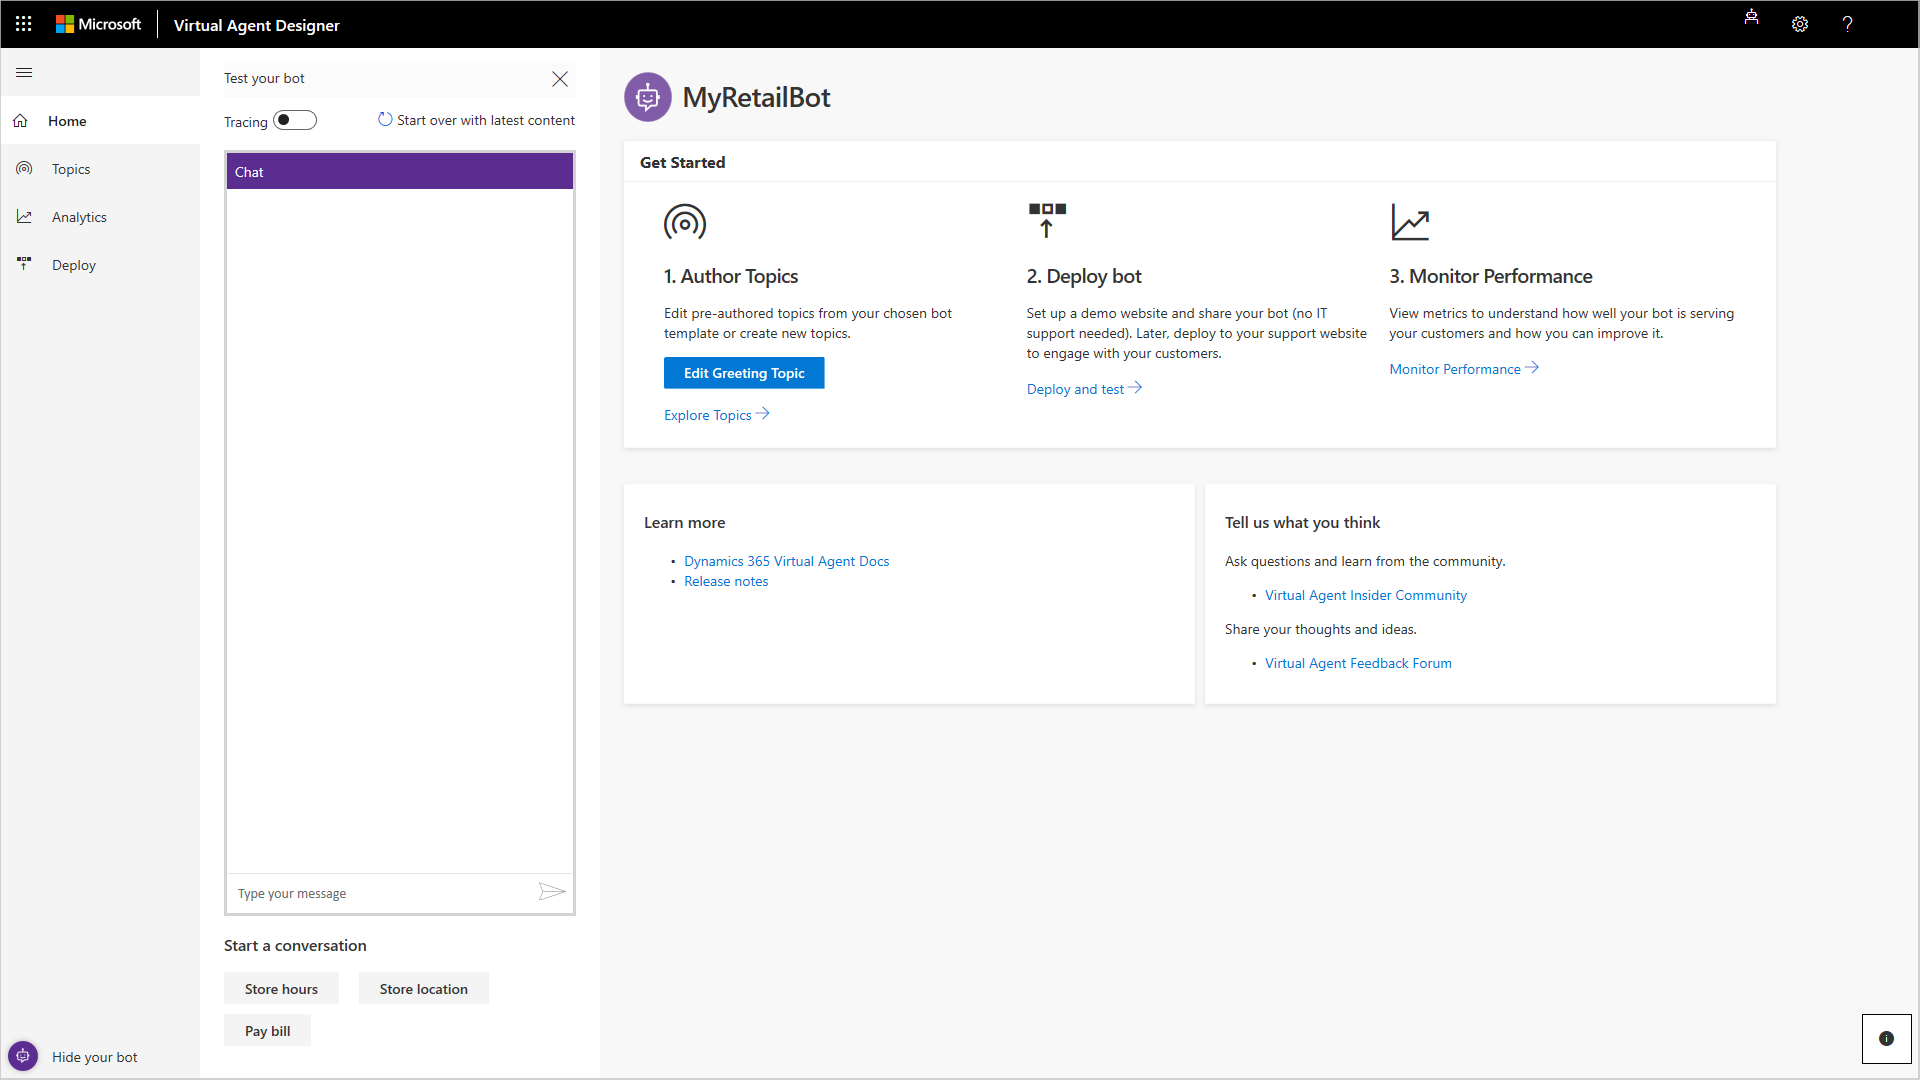
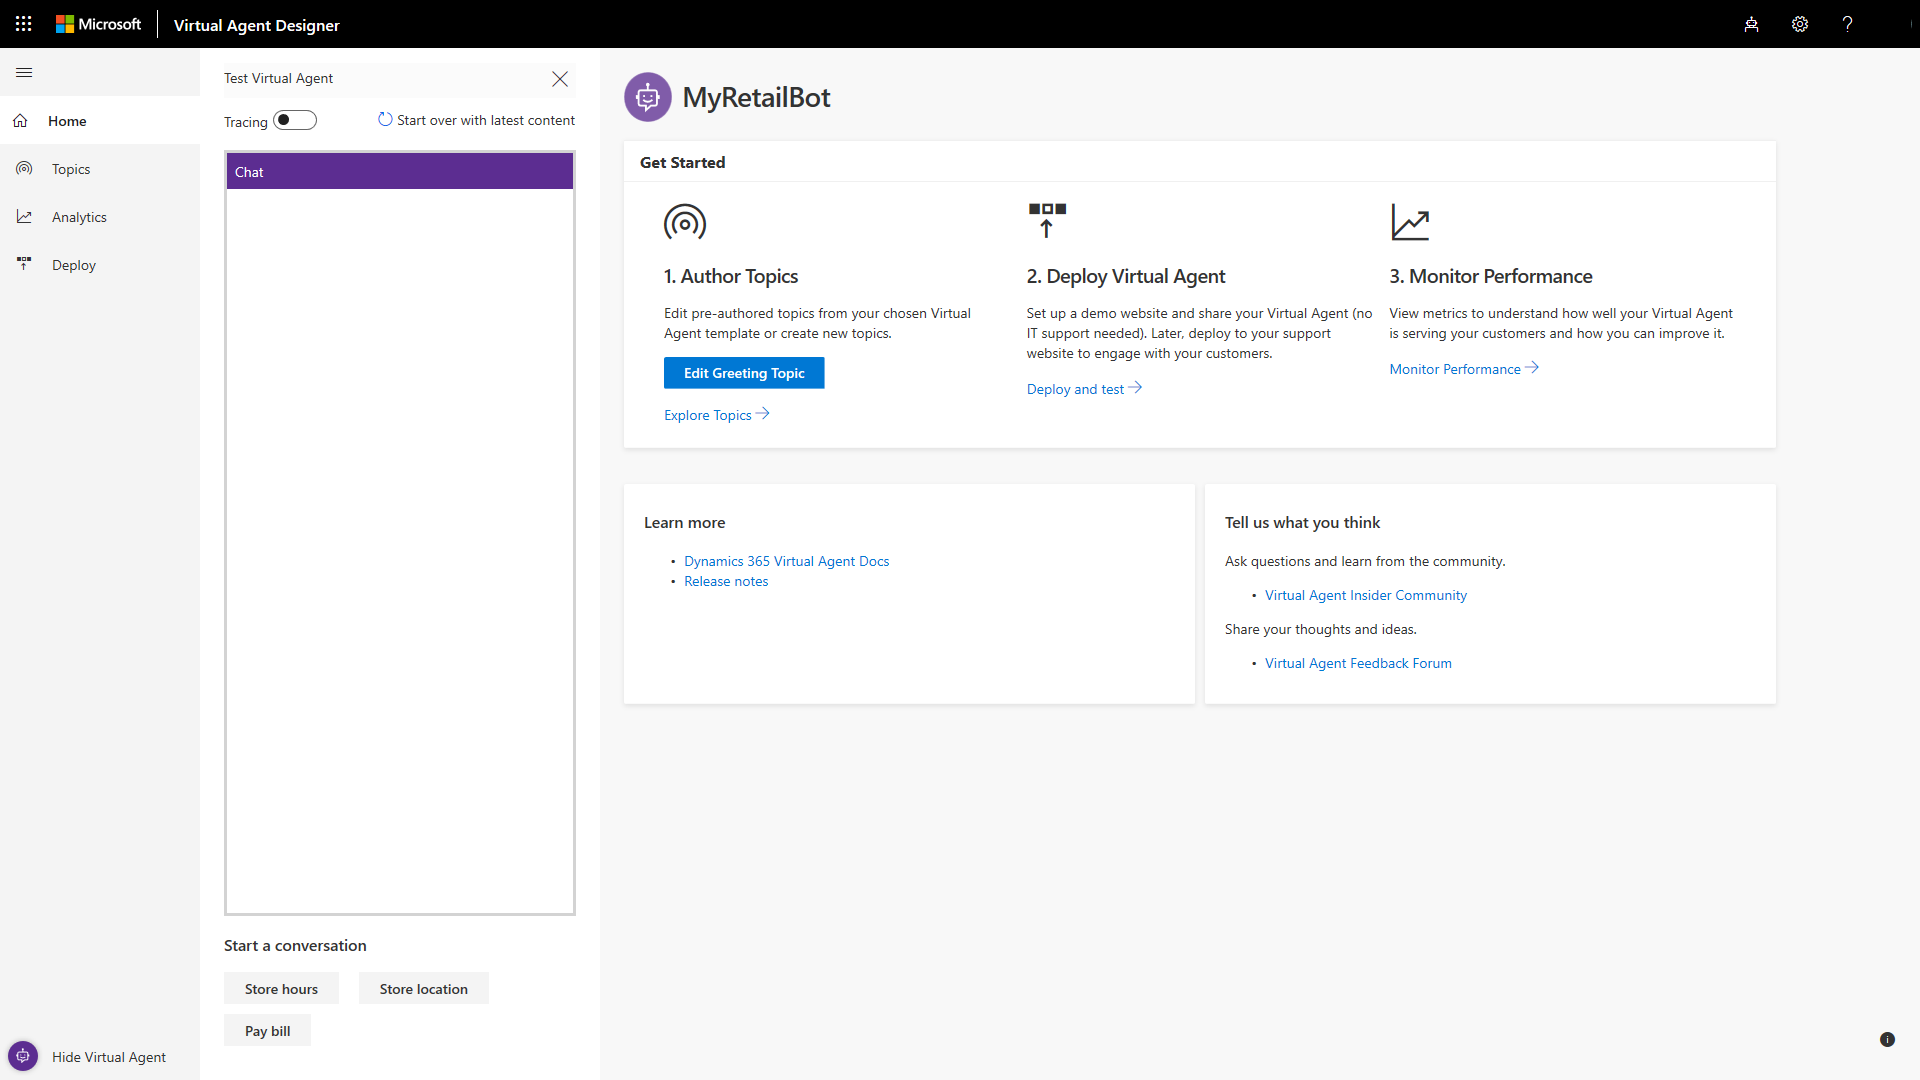
incorporated comments, updated screenshots

diff --git a/ai-docs/customer-service-virtual-agent/getting-started-deploy.md b/ai-docs/customer-service-virtual-agent/getting-started-deploy.md
@@ -16,29 +16,19 @@ manager: shellyha
 
 Once you have finished designing you virtual agent, you can deploy it to a demo environment on the web or to your live website.
 
-## To deploy your virtual agent
+## To deploy your virtual agent to a demo environment
 
 1. Select **Deploy** in the navigation pane to open the Deploy page.
 
    > ![Open Deploy page](media/open-deploy.png)
 
-2. To deploy the bot to the demo website, select **Demo website** on the Deploy page. The demo website provides a sandbox environment for your team to test the virtual agent and give you feedback.
+2. Select **Demo website** on the Deploy page. The demo website provides a sandbox environment for your team to test the virtual agent and give you feedback.
 
    > ![Select demo website](media/open-demo.png)
 
     On the Deploy - Demo Website page, enter a welcome message for your bot and some examples of topic triggers to use as conversation starters for team members testing your bot, and then select **Publish**.
 
    > ![Deploy bot](media/publish-demo.png)
-
-3. To deploy your bot to your own custom website, select **Custom website** on the Deploy page.
-
-   > ![Select custom website](media/deploy-custom.png)
-
-   On the Deploy - Custom Website page, copy the Virtual Agent code for the custom website and share it with your website administrator to add to the site. If you have admin permissions to the site, you can do it yourself.
-
-   Then select **Publish** to publish the virtual agent. Publishing the code ensures that your website displays the most current virtual agent content.
-
-   > ![Custom message](media/publish-custom.png)
 
 ## To share your virtual agent in the demo website
 
@@ -51,3 +41,17 @@ Once you have finished designing you virtual agent, you can deploy it to a demo 
 2. Test the virtual agent in the demo website. Enter a trigger phrase at the **Type your message** prompt, and then follow the conversation path.
 
    > ![Test virtual agent](media/demo-website.png)
+
+## To deploy your virtual agent to your own custom website
+
+1. If the Deploy page is not already open, select **Deploy** in the navigation pane to open it.
+
+2. Select **Custom website** on the Deploy page.
+
+   > ![Select custom website](media/deploy-custom.png)
+
+   On the Deploy - Custom Website page, copy the Virtual Agent code for the custom website and share it with your website administrator to add to the site. If you have admin permissions to the site, you can do it yourself.
+
+   Then select **Publish** to publish the virtual agent. Publishing the code ensures that your website displays the most current virtual agent content.
+
+   > ![Custom message](media/publish-custom.png)

diff --git a/ai-docs/customer-service-virtual-agent/quickstart.md b/ai-docs/customer-service-virtual-agent/quickstart.md
@@ -69,17 +69,35 @@ This Quickstart takes you through the end-to-end experience of creating a virtua
 
    > ![Virtual agent response](media/response-text.png)
 
-   To specify a response by the customer, select **User says**, and then enter a response in the **User responses** box.
+   To specify a response by the customer, select **User says**, and then enter a response in the **User responses** box. You can provide several options for the user’s response. The options display as clickable buttons.
 
-   > ![User response](media/user-response.png)
+   > ![Add user response](media/user-says.png)
 
-   Select **Save** to save the conversation.
+   Enter a response in the **User responses** box.
+
+   > ![Add user response text](media/user-response.png)
+
+   To give the customer a choice between different responses, select **Add user response**.
+
+   > ![Additional user response](media/second-response.png)
+
+   Then specify the additional response in the **User responses** box.
+
+   > ![Additional user response text](media/second-response-text.png)
+
+   The conversation editor creates separate paths in the conversation, depending on the customer's response. The conversation path leads the customer to the appropriate resolution for each user response.
+
+   Add additional bot and user responses to complete the conversation path. Select **Save** to save the conversation.
 
 6. Test the topic in the Test Virtual Agent.
 
    Enter a trigger phrase for the topic at the **Type your message** prompt of the Test Virtual Agent, and then follow the conversation path.
 
    > ![Start conversation](media/start-conversation.png)
+
+   If the Test Virtual Agent already displays a virtual agent conversation, select **Start over with latest content** at the top of the Test Virtual Agent pane to restart the conversation.
+
+   > ![Restart conversation](media/restart-conversation.png)
 
 7. Deploy the virtual agent. Once the virtual agent is created, you have the option to activate it either on a demo website or your own custom website.
 

diff --git a/ai-docs/customer-service-virtual-agent/getting-started-new-environment.md b/ai-docs/customer-service-virtual-agent/getting-started-new-environment.md
@@ -26,19 +26,17 @@ If you encounter problems creating an environment, see [Known issues with creati
 
     Specify a unique name for the environment, *United States* as the region, and *Trial* as the environment type. Then select **Create environment**.
 
-   > ![Create environment](media/how-to-flow-1-1.png)
+   > ![Create environment](media/create-environment.png)
 
     PowerApps creates the environment and displays a prompt asking if you want to create a database.
 
 3. Select **Create database** to display the **Create a database for this environment** screen.
 
-   > [!div class="mx-imgBorder"]
-   > ![Create database screen](media/how-to-flow-1-2.png)
+   > ![Create database](media/create-database.png)
 
 4. Select your currency type and language, and then select **Create database**.
 
-   > [!div class="mx-imgBorder"]
-   > ![Create database](media/how-to-flow-1-3.png)
+   > ![Create database](media/create-database2.png)
 
 > [!NOTE]
 > Creating a database and environment can take some time.

diff --git a/ai-docs/customer-service-virtual-agent/getting-started-create-topics.md b/ai-docs/customer-service-virtual-agent/getting-started-create-topics.md
@@ -38,9 +38,9 @@ You can see how the conversation path works in practice by testing it in the Tes
 
 3. Specify a name, description, and one or more trigger phrases for the topic.
 
-    A trigger phrase is a phrase that a customer enters in the chat window to start a conversation with the virtual agent. Once the conversation is started, the conversation follows the path you define. You can specify more than one trigger phrase for a topic.
+    A trigger phrase is a phrase that a customer enters in the chat window to start a conversation with the virtual agent. Once the conversation is started, the conversation follows the path you define. You can specify more than one trigger phrase for a topic. You can include punctuation in a trigger phrase, but it is best to use short phrases rather than long sentences.
 
-    Then select **Save topic** to add the topic to the topics list.
+    Select **Save topic** to add the topic to the topics list.
 
    > ![Save topic](media/save-topic.png)
 
